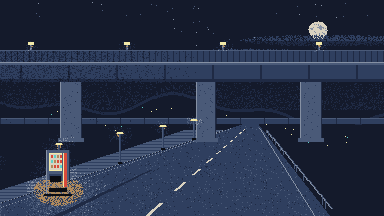
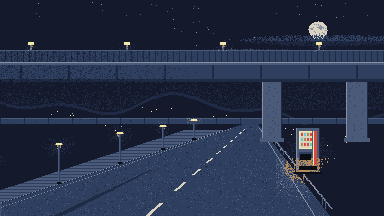
fix(ui): タイトル背景の橋脚と自販機を右へ寄せ、題字とメニューの下を空ける
Claude-Session: https://claude.ai/code/session_012m8V77zujmRXRRP5JutGJS

diff --git a/tools/ui/paint_title_bg.py b/tools/ui/paint_title_bg.py
@@ -2,7 +2,7 @@
 
 題材：国道 281 号と高架、夜（docs/ASSETS_NEEDED.md §6f）。文字は入れない。
 構図：画面の右下へ抜ける国道、上を横切る高速の高架、左に自販機の灯り、街灯が奥へ並ぶ。
-左上〜中央左（題字とメニューが載る）は暗く保つ。決定論的。
+左上〜中央左（題字とメニューが載る。x<250）には橋脚も自販機も置かず暗く保つ。決定論的。
 
 使い方: python3 tools/ui/paint_title_bg.py [--out resources/ui/title_bg.png] [--preview build/title_x3.png]
 """
@@ -199,7 +199,7 @@ def paint() -> Canvas:
         c.vline(x + 5, 50, 61, DEEP)
     c.hline(50, 0, W - 1, FOG)
     # 橋脚
-    for (px0, w) in [(60, 22), (196, 20), (300, 22)]:
+    for (px0, w) in [(262, 20), (346, 22)]:
         c.rect(px0, 82, w, 60, FOG)
         c.vline(px0, 82, 141, CONC)
         c.vline(px0 + w - 1, 82, 141, DEEP)
@@ -228,7 +228,7 @@ def paint() -> Canvas:
         c.rect(x - 1, y, 4, 2, SUMI)
 
     # ── 自販機：左下、歩道の上。唯一の「安全な明かり」 ──
-    vxm, vym = 46, 150
+    vxm, vym = 296, 128
     c.glow(vxm + 12, vym + 22, 34, k=20)
     c.rect(vxm, vym, 24, 44, FOG)
     c.vline(vxm, vym, vym + 43, CONC)
